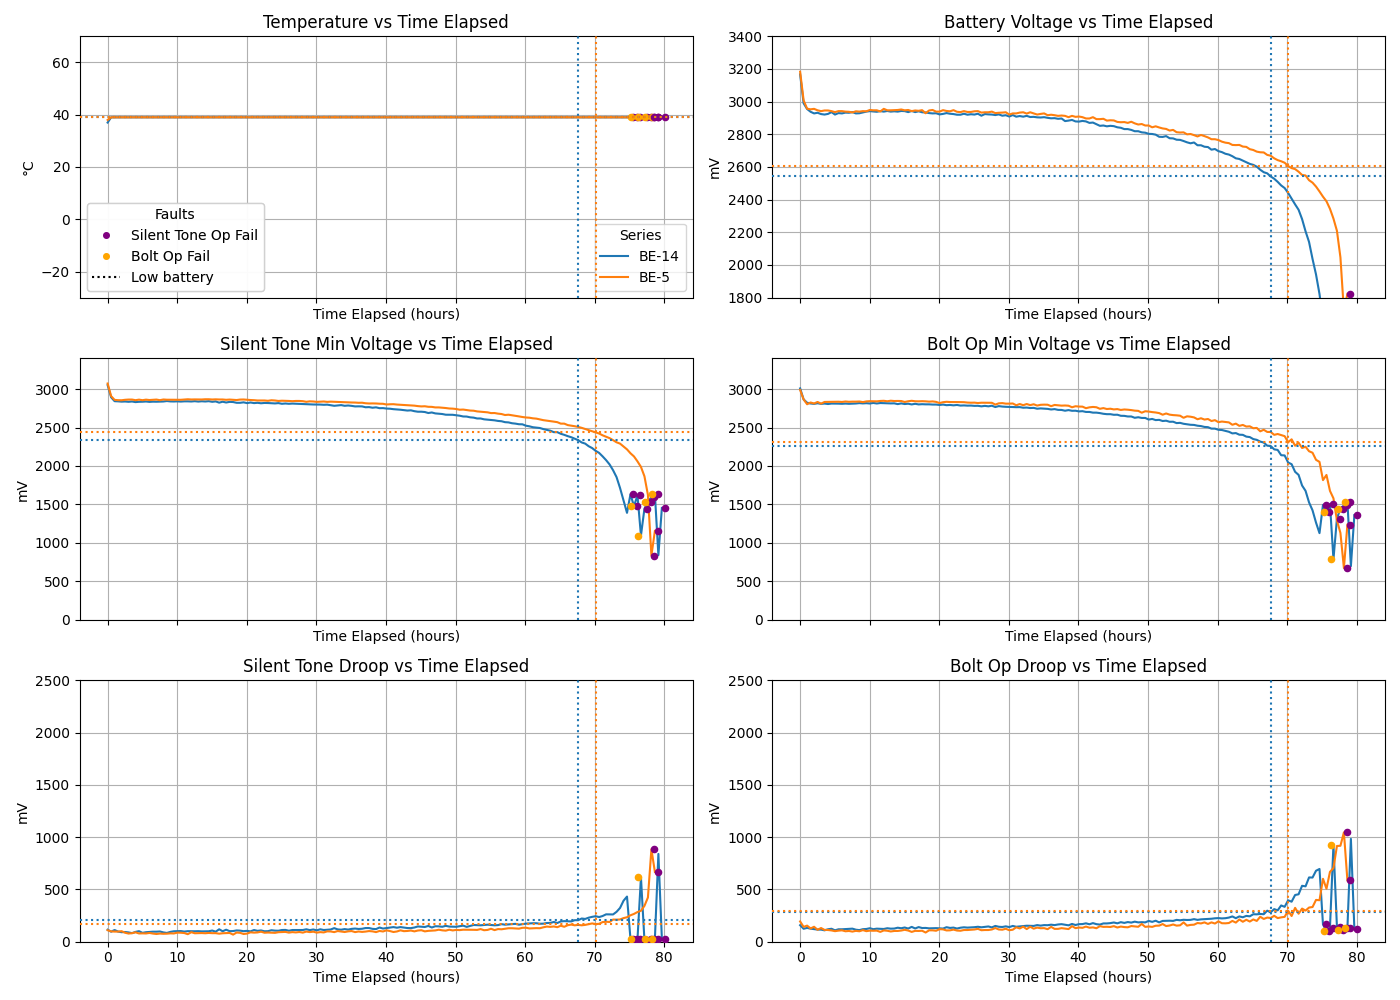
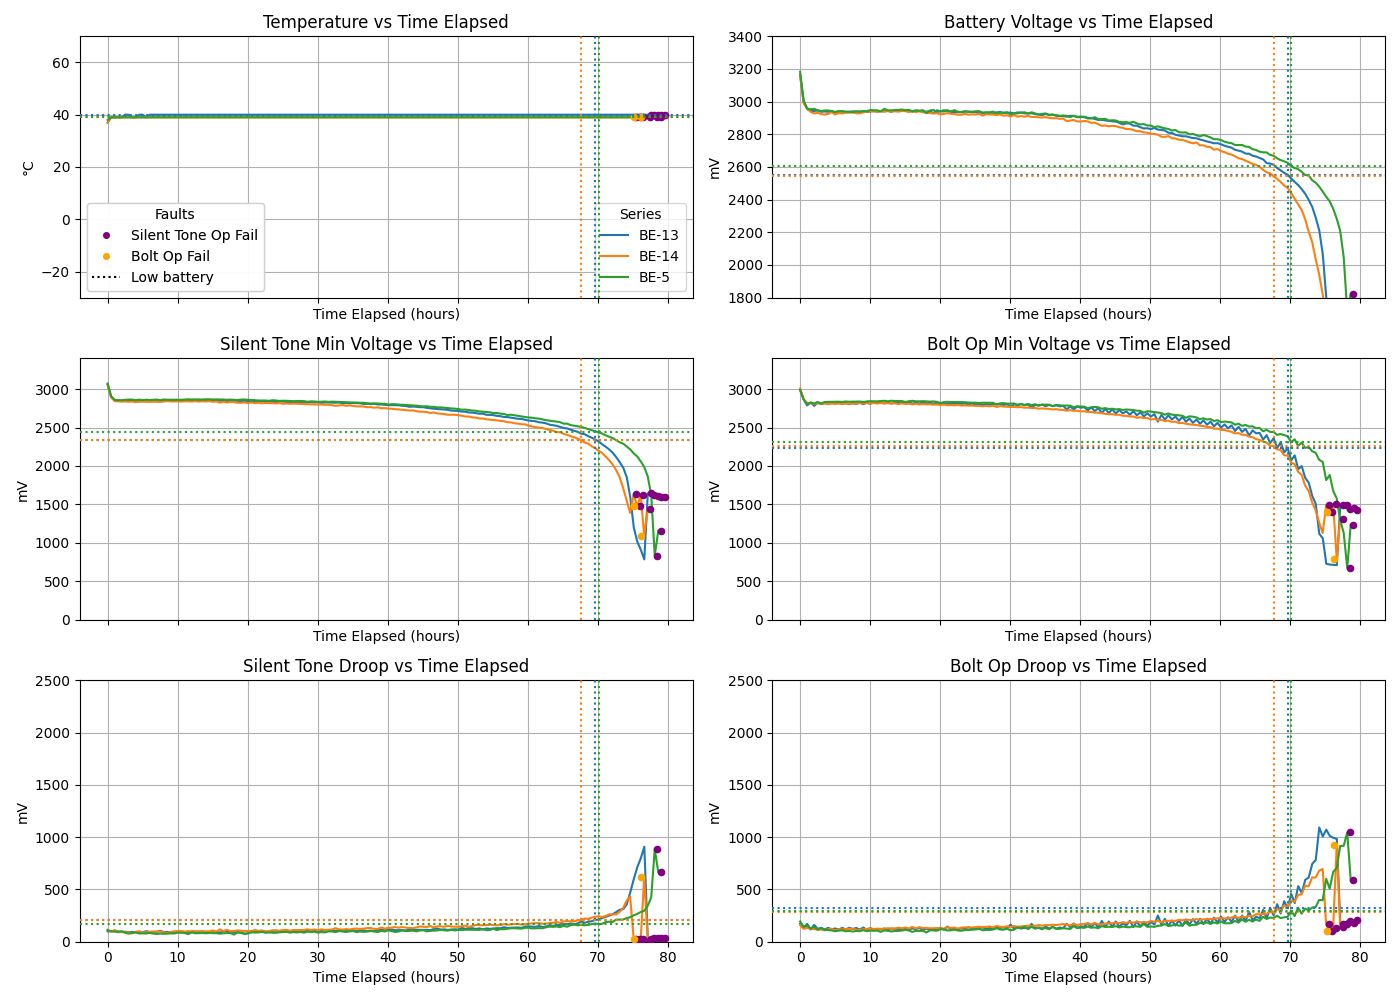
enegitech 40c

diff --git a/plot_folder.py b/plot_folder.py
@@ -6,7 +6,7 @@ import numpy as np  # NEW
 from matplotlib.lines import Line2D
 
 # CONFIGURATION
-CSV_DIR = "csvs/manufacturers-cross-temp/temp-40c/duracell"
+CSV_DIR = "csvs/manufacturers-cross-temp/temp-40c/enegitech"
 CSV_TAG = os.path.basename(os.path.normpath(CSV_DIR))
 PLOT_OUTPUT = f"plots/compare_all_{CSV_DIR.replace("/", "-")}.png"
 COMPUTE_LOW_BATT_BY_ALL_FAULTS=True
